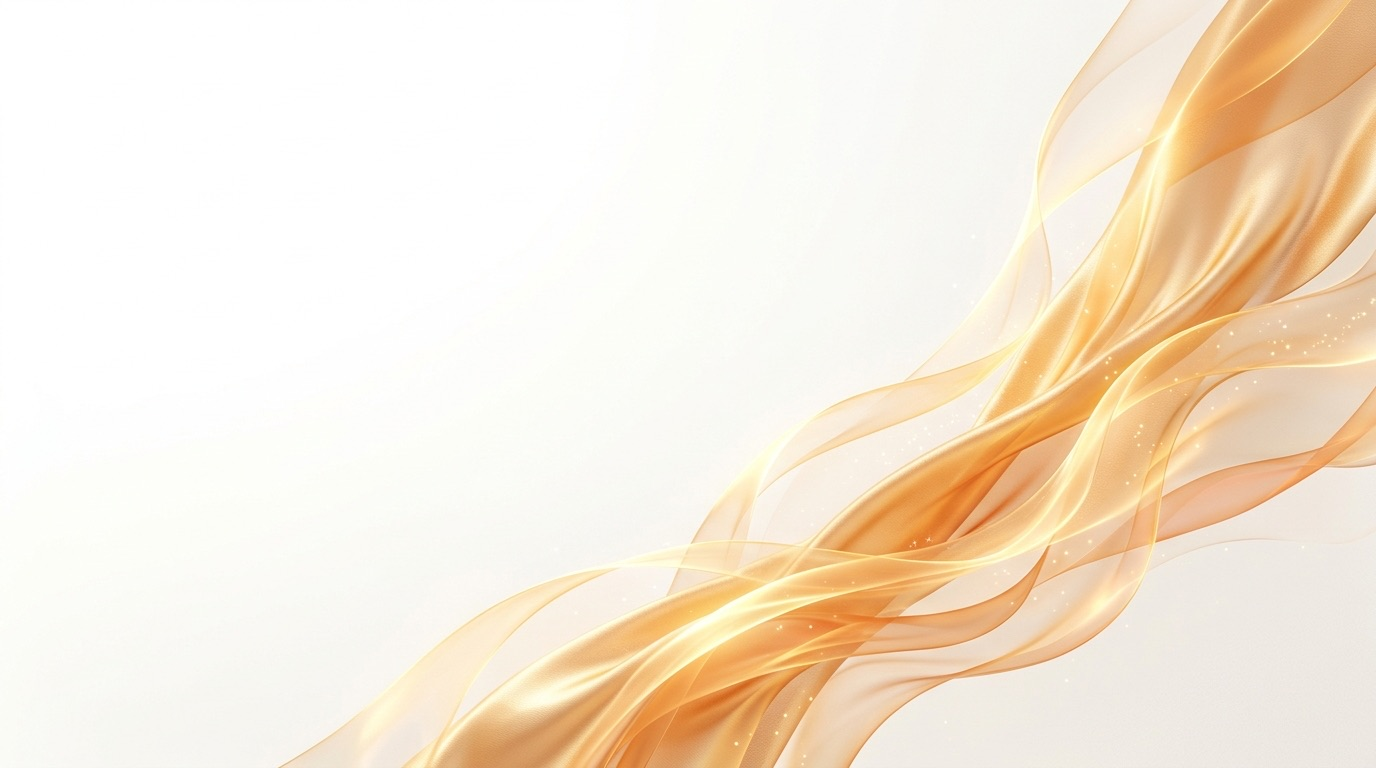
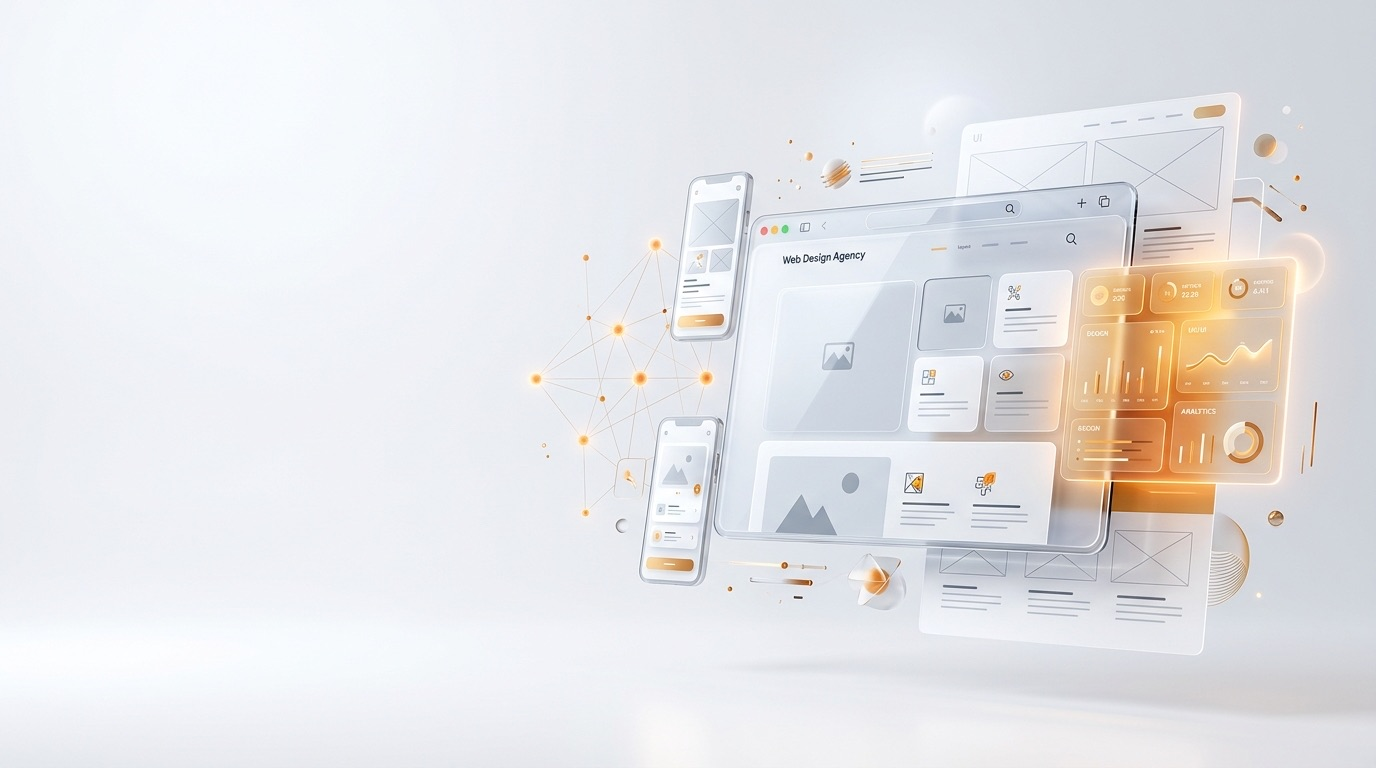
feat(hero): oppdater hero-visuell med moderne 3D webdesign-elementer og tilpasset spacing

diff --git a/legacy_html/style.css b/legacy_html/style.css
@@ -10418,12 +10418,12 @@ body#home.homepage-refresh .hero-showcase-base {
 body#home.homepage-refresh .hero-light-showcase,
 .hero-light-showcase {
     position: relative;
-    min-height: clamp(620px, 86vh, 880px);
+    min-height: clamp(520px, 78vh, 760px);
     display: flex;
     align-items: center;
     overflow: hidden;
     background: #f6fbff;
-    padding: clamp(72px, 11vw, 128px) 0 clamp(56px, 8vw, 96px) !important;
+    padding: clamp(36px, 5vw, 64px) 0 clamp(36px, 4.5vw, 56px) !important;
     isolation: isolate;
 }
 
@@ -10449,7 +10449,7 @@ body#home.homepage-refresh .hero-light-showcase::after {
     height: 100%;
     object-fit: cover;
     object-position: right center;
-    opacity: 0.96;
+    opacity: 0.98;
 }
 
 .hero-light-showcase .hero-bg-gradient-mask {
@@ -10457,10 +10457,10 @@ body#home.homepage-refresh .hero-light-showcase::after {
     inset: 0;
     background: linear-gradient(90deg, 
         #f6fbff 0%, 
-        #f6fbff 36%, 
-        rgba(246, 251, 255, 0.94) 48%, 
-        rgba(246, 251, 255, 0.65) 68%, 
-        transparent 100%
+        #f6fbff 32%, 
+        rgba(246, 251, 255, 0.92) 44%, 
+        rgba(246, 251, 255, 0.50) 62%, 
+        transparent 85%
     );
 }
 
@@ -10468,8 +10468,8 @@ body#home.homepage-refresh .hero-light-showcase::after {
     .hero-light-showcase .hero-bg-gradient-mask {
         background: linear-gradient(180deg, 
             rgba(246, 251, 255, 0.96) 0%, 
-            rgba(246, 251, 255, 0.90) 50%, 
-            rgba(246, 251, 255, 0.72) 100%
+            rgba(246, 251, 255, 0.88) 45%, 
+            rgba(246, 251, 255, 0.65) 100%
         );
     }
 }
@@ -10484,23 +10484,23 @@ body#home.homepage-refresh .hero-light-showcase::after {
 }
 
 .hero-light-showcase .hero-content-wrap {
-    max-width: 650px;
+    max-width: 580px;
 }
 
 .hero-light-showcase .hero-eyebrow-badge {
     display: inline-flex;
     align-items: center;
     gap: 8px;
-    padding: 8px 18px;
+    padding: 7px 16px;
     border-radius: 9999px;
-    background: rgba(255, 255, 255, 0.92);
-    border: 1px solid rgba(255, 106, 27, 0.22);
-    box-shadow: 0 4px 14px rgba(255, 106, 27, 0.08);
+    background: rgba(255, 255, 255, 0.94);
+    border: 1px solid rgba(255, 106, 27, 0.24);
+    box-shadow: 0 4px 12px rgba(255, 106, 27, 0.08);
     backdrop-filter: blur(10px);
     -webkit-backdrop-filter: blur(10px);
-    margin-bottom: 24px;
+    margin-bottom: 18px;
     font-family: var(--font-primary, 'Kanit', sans-serif);
-    font-size: 0.82rem;
+    font-size: 0.80rem;
     font-weight: 800;
     letter-spacing: 0.08em;
     text-transform: uppercase;
@@ -10520,9 +10520,9 @@ body#home.homepage-refresh .hero-light-showcase::after {
 .hero-light-showcase .hero-display-title {
     margin: 0;
     font-family: 'Playfair Display', Georgia, 'Times New Roman', serif !important;
-    font-size: clamp(3.2rem, 7.8vw, 5.8rem) !important;
+    font-size: clamp(2.6rem, 5.4vw, 4.5rem) !important;
     font-weight: 900 !important;
-    line-height: 0.95 !important;
+    line-height: 0.96 !important;
     letter-spacing: -0.025em;
     color: var(--refresh-heading, #11263c) !important;
     text-transform: uppercase;
@@ -10543,11 +10543,11 @@ body#home.homepage-refresh .hero-light-showcase::after {
 }
 
 .hero-light-showcase .hero-sublead-text {
-    margin: 24px 0 32px 0;
-    max-width: 540px;
+    margin: 18px 0 28px 0;
+    max-width: 500px;
     font-family: var(--font-primary, 'Kanit', sans-serif);
-    font-size: clamp(1.05rem, 1.35vw, 1.18rem);
-    line-height: 1.65;
+    font-size: clamp(1rem, 1.25vw, 1.12rem);
+    line-height: 1.62;
     color: var(--refresh-text, #4b5563);
     font-weight: 400;
 }
